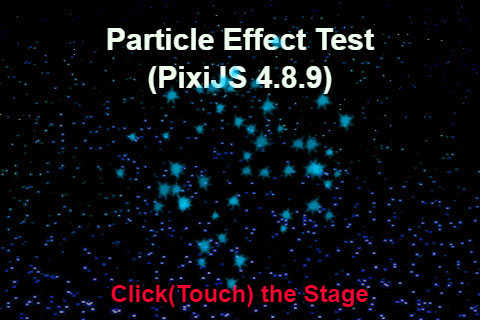
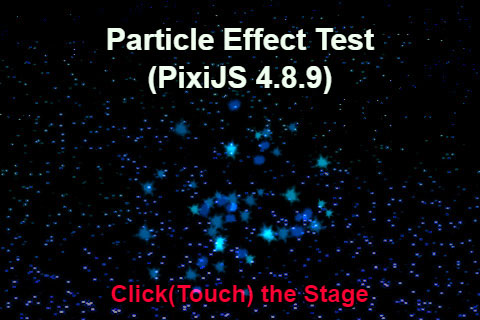
Add blendMode, multiple sprites

diff --git a/src/main.js b/src/main.js
@@ -22,7 +22,8 @@ const fpsDelta = 60 / APP_FPS;
 
 let elapsedTime = 0;
 let bg;
-let obj;
+let obj_skyblue, obj_blue, obj_darkblue;
+let colorAry = ["skyblue", "blue", "darkblue"];
 let particles = []; // 複数
 let particle; // 単体
 let particlesEmitflag = true; // 生成済みフラグ
@@ -44,11 +45,15 @@ let containerSp;
 
 // asset property
 const ASSET_BG = "images/pic_bg.jpg";
-const ASSET_OBJ = "images/pic_shine.png";
+const ASSET_obj_skyblue = "images/pic_shine_skyblue.png";
+const ASSET_obj_blue = "images/pic_shine_blue.png";
+const ASSET_obj_darkblue = "images/pic_shine_darkblue.png";
 
 // asset load
 PIXI.loader.add("bg_data", ASSET_BG);
-PIXI.loader.add("obj_data", ASSET_OBJ);
+PIXI.loader.add("obj_skyblue_data", ASSET_obj_skyblue);
+PIXI.loader.add("obj_blue_data", ASSET_obj_blue);
+PIXI.loader.add("obj_darkblue_data", ASSET_obj_darkblue);
 PIXI.loader.load(onAssetsLoaded);
 
 /**
@@ -66,7 +71,9 @@ function onAssetsLoaded(loader, res) {
   bg.y = 0;
 
   // shine
-  obj = res.obj_data.texture;
+  obj_skyblue = res.obj_skyblue_data.texture;
+  obj_blue = res.obj_blue_data.texture;
+  obj_darkblue = res.obj_darkblue_data.texture;
 
   // container
   app.stage.on("pointerdown", onPointerDown);
@@ -121,14 +128,10 @@ let onPointerDown = e => {
   console.log("onPointerDown()", e);
 
   position = e.data.global;
-  obj.x = position.x;
-  obj.y = position.y;
-
   makeParticle(
     position.x, // x position
     position.y, // y position
-    obj, // path for sprite asset
-    30, // number of particles
+    50, // number of particles
     -0.1, // gravity
     true, // random spacing
     0, // min angle
@@ -177,7 +180,6 @@ const update = delta => {
  * @export particleEffect
  * @param {number} [x=0] x position(default=0)
  * @param {number} [y=0] y position(default=0)
- * @param {string} [spriteFunction=() => circle(10, "red")] sprite texture(default=red circle)
  * @param {number} [numberOfParticles=10] Maximum number of particles(default=10)
  * @param {number} [gravity=0] gravity(default=0)
  * @param {boolean} [randomSpacing=true] Should particles be random? To be evenly spaced?(default=true)
@@ -197,7 +199,6 @@ const update = delta => {
 function makeParticle(
   x = 0, // x座標
   y = 0, // y座標
-  obj, // 生成するスプライトのテクスチャ画像を格納
   numberOfParticles = 10, // パーティクル最大個数
   gravity = 0, // 重力
   randomSpacing = true, // パーティクル間をランダムにするか（true）？しない（その場合等間隔にする）か？
@@ -266,8 +267,18 @@ function makeParticle(
     if (numberOfParticles <= particles.length) return;
 
     // パーティクル単体は、スプライト画像
-    particle = new PIXI.Sprite(obj);
+    let num = randomInt(0, 2);
+    console.log("num: ", num);
+    let obj = `obj_${colorAry[num]}`;
+    console.log(obj);
+
+    let particle = new PIXI.Sprite(eval(obj));
     containerSp.addChild(particle);
+
+    // blendMode
+    particle.blendMode = PIXI.BLEND_MODES.ADD;
+    // particle.blendMode = PIXI.BLEND_MODES.SCREEN;
+    // particle.blendMode = PIXI.BLEND_MODES.MULTIPLY;
 
     // xとyの位置を設定する(中間点を算出)
     particle.x = x + randomInt(-50, 50);
